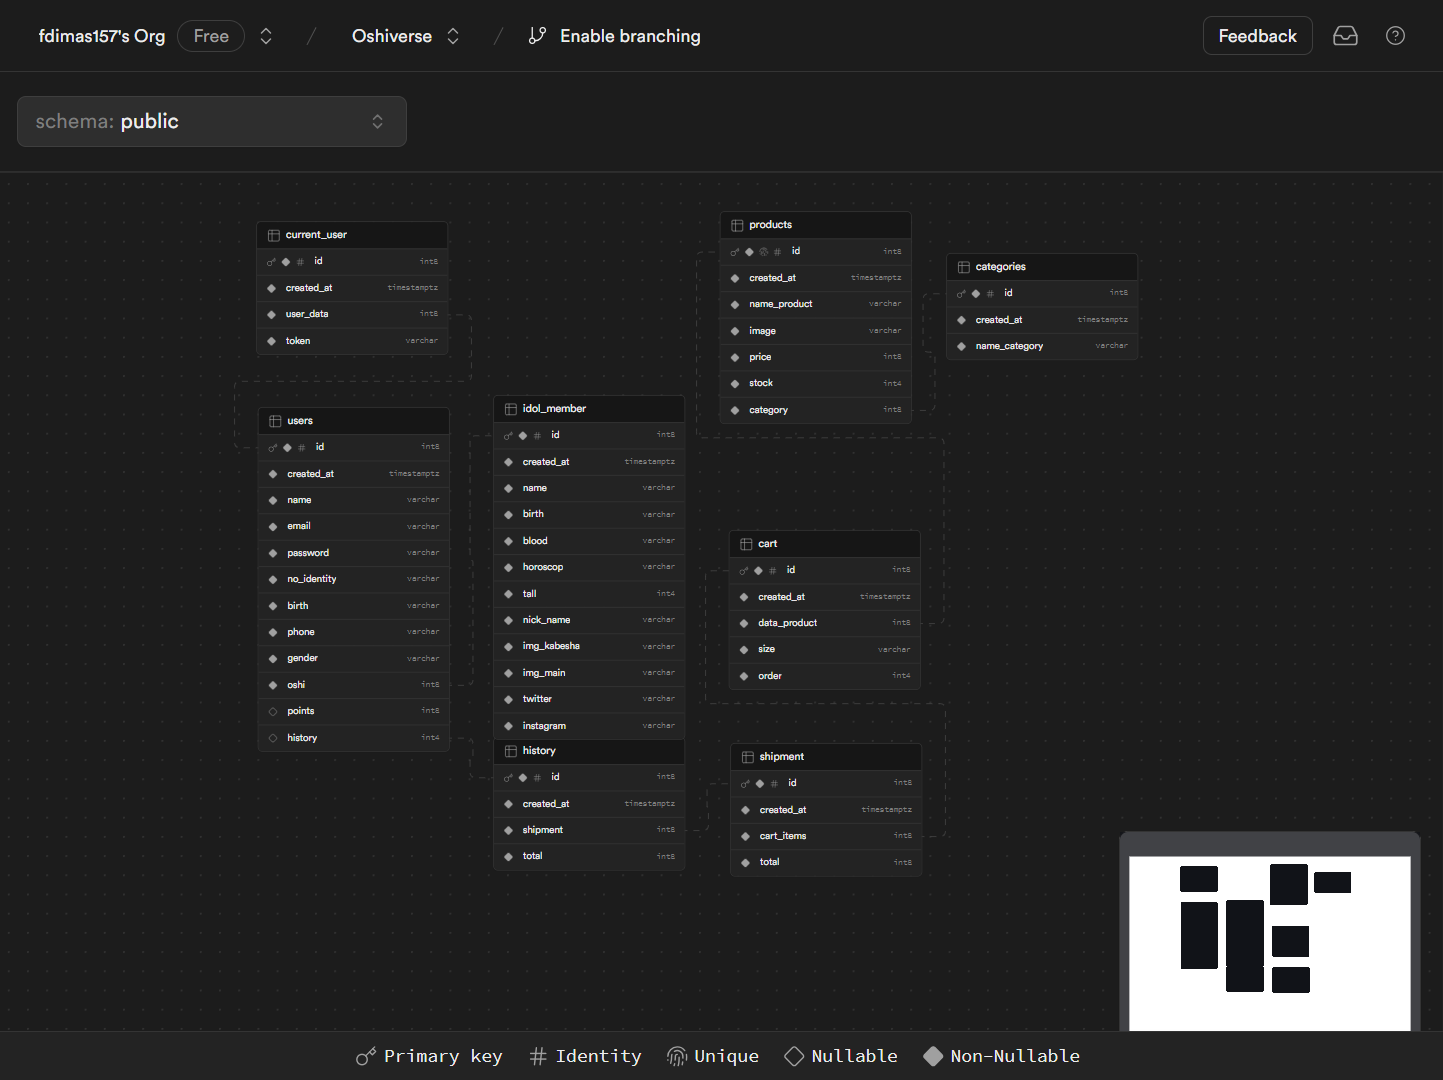
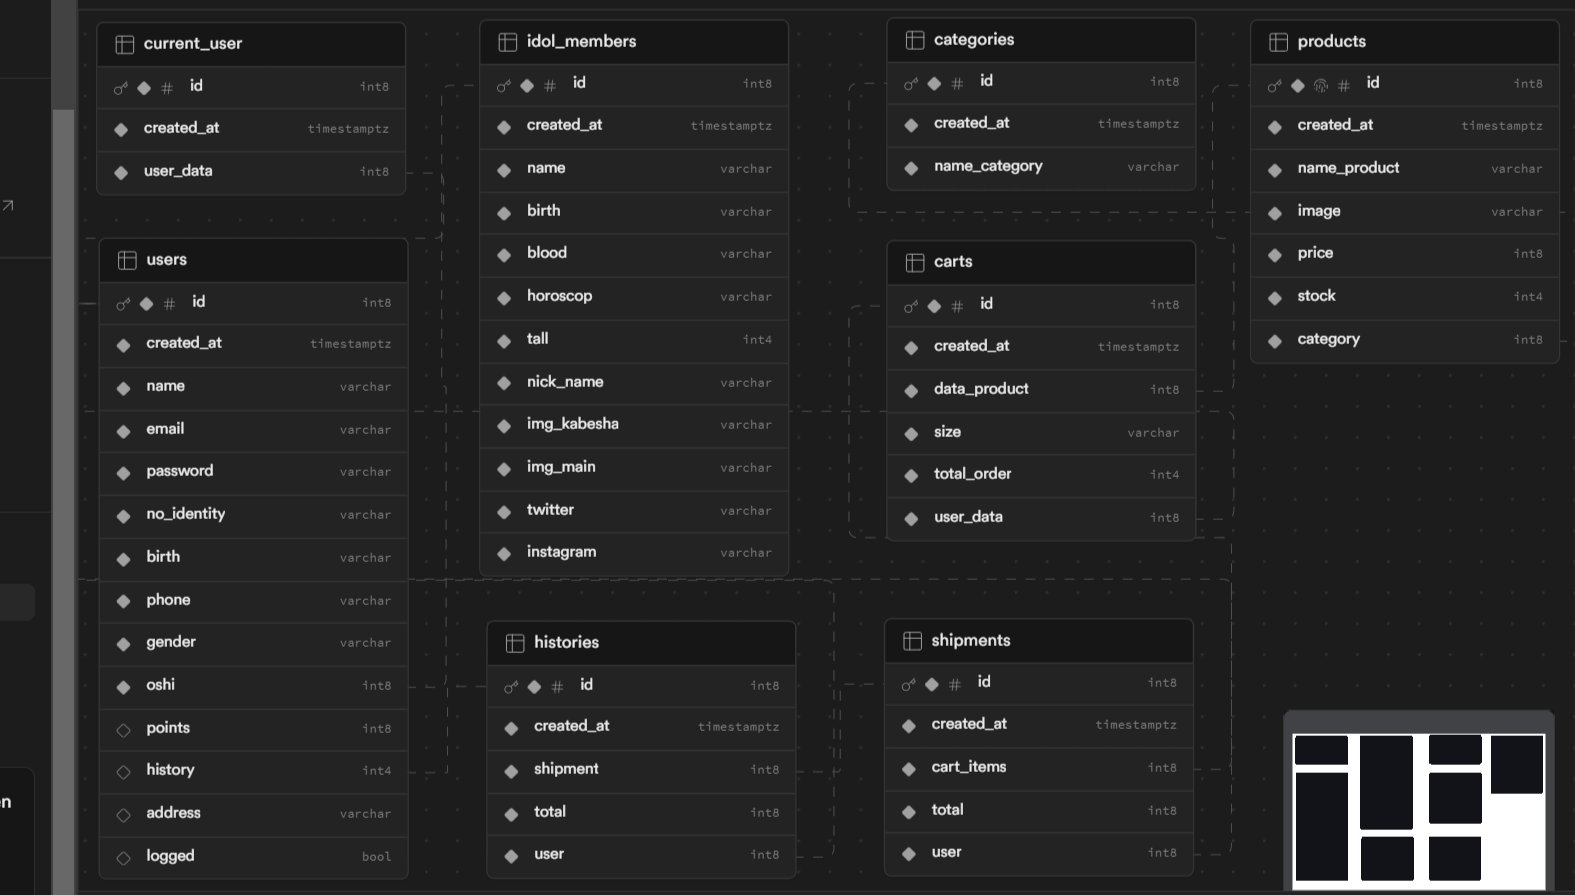
fix: fix problem after presentation

diff --git a/frontend/src/pages/Schedule.jsx b/frontend/src/pages/Schedule.jsx
@@ -4,7 +4,7 @@ import SideNews from "../components/SideNews";
 export default function Schedule() {
   return (
     <>
-    <Header />
+      <Header />
       <div className="flex flex-row w-full bg-white">
         <div className="w-1/4 bg-white p-4">
           <SideNews />
@@ -12,8 +12,8 @@ export default function Schedule() {
         <div className="w-3/4">
           <div className="flex flex-row p-4 gap-8">
             <div className="flex flex-col justify-center items-center">
-              <div className="font-outfit font-bold text-7xl">24</div>
-              <div className="font-outfit font-bold text-3xl">Februari</div>
+              <div className="font-outfit font-bold text-7xl">20</div>
+              <div className="font-outfit font-bold text-3xl">April</div>
             </div>
             <div className="flex flex-col">
               <div className="font-outfit font-bold text-2xl">Next Event</div>
@@ -30,7 +30,7 @@ export default function Schedule() {
             </div>
           </div>
           <div className="p-4">
-            <table className="w-full text-sm">
+            <table className="w-full text-sm cursor-pointer">
               <thead className="border border-red-600">
                 <tr>
                   <th className="bg-red-600 text-white p-2" colSpan={7}>
@@ -49,13 +49,51 @@ export default function Schedule() {
               </thead>
               <tbody className="font-abel">
                 <tr>
-                  <th className="border border-red-600 h-24 "></th>
-                  <th className="border border-red-600 h-24 flex p-2">1</th>
-                  <th className="border border-red-600 h-24 flex p-2 flex-row">2</th>
-                  <th className="border border-red-600 p-2">3</th>
-                  <th className="border border-red-600 p-2">4</th>
-                  <th className="border border-red-600 p-2">5</th>
-                  <th className="border border-red-600 p-2">6</th>
+                  <th className="border border-red-600 p-2 h-24 "></th>
+                  <th className="border border-red-600">1</th>
+                  <th className="border border-red-600">2</th>
+                  <th className="border border-red-600">3</th>
+                  <th className="border border-red-600">4</th>
+                  <th className="border border-red-600">5</th>
+                  <th className="border border-red-600">6</th>
+                </tr>
+                <tr>
+                  <th className="border border-red-600 p-2 h-24">7</th>
+                  <th className="border border-red-600">8</th>
+                  <th className="border border-red-600">9</th>
+                  <th className="border border-red-600">10</th>
+                  <th className="border border-red-600">11</th>
+                  <th className="border border-red-600">12</th>
+                  <th className="border border-red-600">13</th>
+                </tr>
+                <tr>
+                  <th className="border border-red-600 p-2 h-24">14</th>
+                  <th className="border border-red-600">15</th>
+                  <th className="border border-red-600">16</th>
+                  <th className="border border-red-600">17</th>
+                  <th className="border border-red-600">18</th>
+                  <th className="border border-red-600">19</th>
+                  <th className="border border-red-600 bg-red-600 text-white font-bold">
+                    20
+                  </th>
+                </tr>
+                <tr>
+                  <th className="border border-red-600 p-2 h-24">21</th>
+                  <th className="border border-red-600">21</th>
+                  <th className="border border-red-600">22</th>
+                  <th className="border border-red-600">23</th>
+                  <th className="border border-red-600">24</th>
+                  <th className="border border-red-600">25</th>
+                  <th className="border border-red-600">26</th>
+                </tr>
+                <tr>
+                  <th className="border border-red-600 p-2 h-24">27</th>
+                  <th className="border border-red-600">28</th>
+                  <th className="border border-red-600">29</th>
+                  <th className="border border-red-600">30</th>
+                  <th className="border border-red-600"></th>
+                  <th className="border border-red-600"></th>
+                  <th className="border border-red-600"></th>
                 </tr>
               </tbody>
             </table>

diff --git a/frontend/src/pages/Profile.jsx b/frontend/src/pages/Profile.jsx
@@ -7,6 +7,7 @@ export default function Profile() {
   const [currentUser, setCurrentUser] = useState({});
   const [currentOshiName, setCurrentOshiName] = useState();
   const [idolMember, setIdolMember] = useState([]);
+  const [getOshi, setGetOshi] = useState({});
 
   useEffect(() => {
     fetch(`${import.meta.env.VITE_API_BASE_URL}/v1/get-all-idol-member`)
@@ -31,53 +32,12 @@ export default function Profile() {
       }/v1/get-idol-member/${localStorage.getItem("currentOshi")}`
     )
       .then((response) => response.json())
-      .then((oshiName) => setCurrentOshiName(oshiName.name));
+      .then((oshiName) => {
+        setCurrentOshiName(oshiName.name);
+        setGetOshi(oshiName);
+        localStorage.setItem("oshi", oshiName);
+      });
   }, []);
-
-  const members = [
-    {
-      id: 1,
-      name: "Reva Fidela",
-      nickName: "Adel",
-      image: "/src/assets/member/oshi-adel.jpg",
-    },
-    {
-      id: 2,
-      name: "Azizi Asadel",
-      nickName: "Zee",
-      image: "/src/assets/member/oshi-zee.jpg",
-    },
-    {
-      id: 3,
-      name: "Shani Indira Natio",
-      nickName: "Shani",
-      image: "/src/assets/member/oshi-shani.jpg",
-    },
-    {
-      id: 4,
-      name: "Marsha Lenathea",
-      nickName: "Marsha",
-      image: "/src/assets/member/oshi-marsha.jpg",
-    },
-    {
-      id: 5,
-      name: "Freyana Jayawardhana",
-      nickName: "Freya",
-      image: "/src/assets/member/oshi-freya.jpg",
-    },
-  ];
-
-  const user = {
-    id: 1,
-    noIdentity: "3279022505030002",
-    name: "Dimas Firmansyah",
-    birth: "2003-05-25",
-    oshimen: members[0],
-    phone: "087735495185",
-    email: "dimas@gmail.com",
-    password: "12345678",
-    gender: "Laki-Laki",
-  };
 
   return (
     <>
@@ -188,7 +148,7 @@ export default function Profile() {
         <div className="w-5/12 p-4">
           <img
             className="w-full rounded-lg"
-            src={user.oshimen.image}
+            src={getOshi.img_main}
             alt="Oshi"
           />
         </div>

diff --git a/frontend/src/components/Header.jsx b/frontend/src/components/Header.jsx
@@ -1,11 +1,22 @@
 /* eslint-disable react/prop-types */
 import { Link } from "react-router-dom";
 import { CircleUserRound } from "lucide-react";
-import { useState } from "react";
+import { useEffect, useState } from "react";
 import PopUpProfile from "./PopUpProfile";
 
 export default function Header({ backgroundHeader, setBackgroundHeader }) {
   const [profilePopUp, setprofilePopUp] = useState();
+  const [currentUser, setCurrentUser] = useState({});
+
+  useEffect(() => {
+    fetch(
+      `${import.meta.env.VITE_API_BASE_URL}/v1/get-user/${localStorage.getItem(
+        "currentUser"
+      )}`
+    )
+      .then((response) => response.json())
+      .then((currentUser) => setCurrentUser(currentUser));
+  }, []);
 
   return (
     <nav
@@ -82,7 +93,7 @@ export default function Header({ backgroundHeader, setBackgroundHeader }) {
         </Link>
       </div>
       <div className="flex gap-4 w-52 justify-center items-center ">
-        <div>Ohaiyou, Dimas !</div>
+        <div>Ohaiyou, {currentUser.name}</div>
         <div
           className={`cursor-pointer ${
             backgroundHeader ? "text-red-600" : "text-white"

diff --git a/backend/api/index.js b/backend/api/index.js
@@ -96,7 +96,6 @@ app.post("/api/v1/add-user", async (req, res) => {
 });
 
 // PRODUCTS
-
 app.use("/api/v1/product", async (_req, res) => {
   const result = await pool.query("SELECT * FROM products");
   res.json(result.rows);
@@ -133,7 +132,7 @@ app.use("/api/v1/cart", async (_req, res) => {
 });
 
 app.get("/api/v1/get-cart/:id", async (req, res) => {
-  const result = await pool.query("SELECT * FROM carts WHERE user = $1", [
+  const result = await pool.query("SELECT * FROM carts WHERE data_user = $1", [
     req.params.id,
   ]);
   res.json(result.rows[0]);
@@ -142,12 +141,12 @@ app.get("/api/v1/get-cart/:id", async (req, res) => {
 app.post("/api/v1/add-to-cart", async (req, res) => {
   try {
     const result = await pool.query(
-      "INSERT INTO carts (data_product, size, total_order, user) VALUES ($1, $2, $3, $4) RETURNING *",
+      "INSERT INTO carts (data_product, size, total_order, data_user) VALUES ($1, $2, $3, $4) RETURNING *",
       [
         req.body.data_product,
         req.body.size,
         req.body.total_order,
-        req.body.user,
+        req.body.data_user,
       ]
     );
 

diff --git a/frontend/src/pages/Login.jsx b/frontend/src/pages/Login.jsx
@@ -102,7 +102,7 @@ export default function Login() {
                     className="w-11/12 text-center flex justify-center items-center flex-col gap-2"
                   >
                     <input
-                      type="text"
+                      type="password"
                       placeholder="Masukan password...."
                       onChange={(e) => setPassword(e.target.value)}
                       className="h-9 w-full px-4 rounded-lg border-none font-bold bg-gray-500/10 text-white "

diff --git a/frontend/src/components/ListCart.jsx b/frontend/src/components/ListCart.jsx
@@ -10,9 +10,16 @@ export default function ListCart() {
   const [cart, setCart] = useState([]);
 
   useEffect(() => {
-    fetch(`${import.meta.env.VITE_API_BASE_URL}/v1/cart`)
+    fetch(
+      `${import.meta.env.VITE_API_BASE_URL}/v1/get-cart/${localStorage.getItem(
+        "currentUser"
+      )}`
+    )
       .then((response) => response.json())
-      .then((cart) => setCart(cart));
+      .then((c) => {
+        setCart(c);
+        console.log(cart);
+      });
   }, []);
 
   return (

diff --git a/frontend/src/pages/MerchandiseCart.jsx b/frontend/src/pages/MerchandiseCart.jsx
@@ -73,7 +73,11 @@ export default function MerchandiseCart() {
   ];
 
   useEffect(() => {
-    fetch(`${import.meta.env.VITE_API_BASE_URL}/v1/cart`)
+    fetch(
+      `${import.meta.env.VITE_API_BASE_URL}/v1/get-cart/${localStorage.getItem(
+        "currentUser"
+      )}`
+    )
       .then((response) => response.json())
       .then((cart) => setCart(cart));
   }, []);
